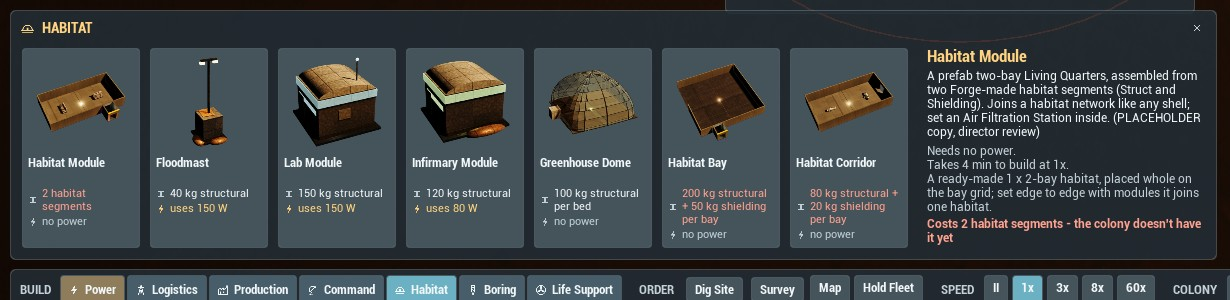
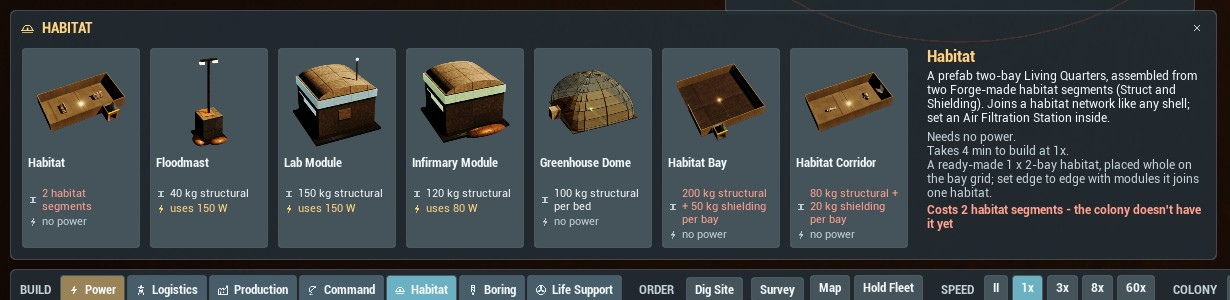
Prefab Habitat: renamed "Habitat", its copy approved (director ruling)
Director ruling 2026-10-16:
- The prefab's display name is now "Habitat". It was "Habitat Module",
  which read as a sibling of the drag-sized Habitat Bay.
- The "(PLACEHOLDER copy, director review)" tag is dropped from its blurb.
  The balance numbers stay marked as placeholders in the row's Notes.

Data only: docs/data/RH_Buildings.csv plus DT_Buildings re-synced from it
(rh_sync_datatables.py, Buildings: rows 21 -> 21). No code referred to the
old name. The ruling is logged in docs/design-decisions.md; PROJECT_STATUS
and the drawer sheet (docs/media/hab-thumbnails.jpg) are refreshed.

Verified: the baseline 10-sol run has 0 sim errors, with the pins
unchanged (power gen 50 W / load 20 W, Regolith_A 40645 kg). -prefab ends
"0 failure(s)". -surfacehab has 78 ok checks and 0 errors. The Habitat
drawer was captured with the card titled "Habitat" and the blurb without
the tag.

diff --git a/docs/design-decisions.md b/docs/design-decisions.md
@@ -245,3 +245,10 @@ The director asked for a way to build above- and below-ground habitats "similar 
 6. **Airlocks are cosmetic** (plus a smaller air leak) until storms can damage habs; a hab needs no airlock or shaft link to be lived in.
 
 Standing rules carried into every gate: new systems are inert for colonies that don't use them (the battery baseline and pins must not move); every new sim gate ships a fails-loudly self-test suite; every player-facing morale/evacuation string stays a Gate-D placeholder.
+
+## Ruling — 2026-10-16 (director: the prefab's name and copy)
+
+After the habitat thumbnails landed, the director ruled on the prefab Habitat's card:
+
+1. **The prefab is called "Habitat"** (it was "Habitat Module", which read as the drag-sized Habitat Bay's sibling).
+2. **Its copy is final:** the "(PLACEHOLDER copy, director review)" tag is dropped from the blurb. The balance numbers (2 segments, 240 s) remain placeholders, as the row's Notes say.

diff --git a/docs/PROJECT_STATUS.md b/docs/PROJECT_STATUS.md
@@ -91,7 +91,9 @@ Everything is on `main` (local `main` matches the `origin/main` tracking ref,
   pressurized shells are shot from 50 degrees down so the rooms inside read.
   The prefab's card no longer claims a per-bay, drag-sized bill: it reads "2
   habitat segments" (counted, not weighed) and "a ready-made 1 x 2-bay
-  habitat, placed whole". Sheet: `docs/media/hab-thumbnails.jpg`.
+  habitat, placed whole". Sheet: `docs/media/hab-thumbnails.jpg`. The
+  director then renamed the prefab "Habitat" (was "Habitat Module") and
+  approved its blurb, dropping the placeholder tag.
 
 ## 2026-10-16: alive pass 2 (presentation only; RedHopeSim untouched)
 
